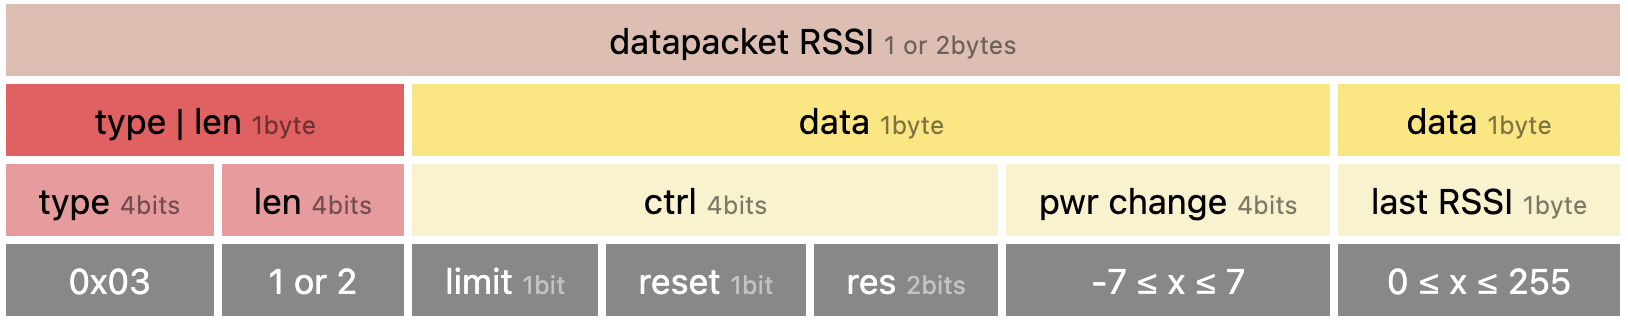
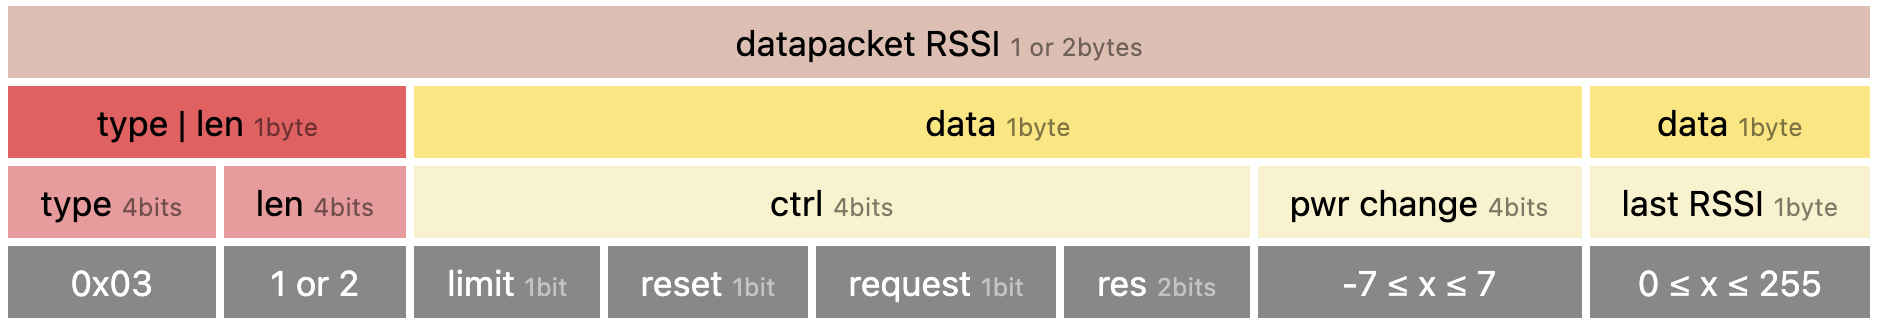
added rssi request flag description

diff --git a/examples/rfm69/README.md b/examples/rfm69/README.md
@@ -1,3 +1,6 @@
+# About
+This example is about a node transferring data via a RFM69 to a [gateway](https://github.com/2ni/rfm69-gateway). The format of the packets are described below. They're flexible and can vary for each node (type). On the gateway a rule should be defined accordingly (by node or node type) to understand the data received.
+
 ## Packet format
 
 <img src="rfm69-packet.png" height="130px" />
@@ -28,7 +31,12 @@ A node can therefore send and receive 16 different types of datapackets each, wh
 ### RSSI ctrl
 The RSSI ctrl byte gives information about power transmission:
 - the lower 4 bits define the amount of change to the power transmission
-- limit bit 0x80: should be set to inform gateway if power_level reached a limit (0 or 23)
-- reset bit 0x40: should be set to inform gateway to reset atc to max power, ie if node doesn't get back ack after several trials
+-  ctrl byte
+| bit | mask | description                                                                    |
+| -   | -    | -                                                                              |
+| 7   | 0x80 | set if node reached a limit (0 or 23) so the gateway doesn't send more changes |
+| 6   | 0x40 | set to request a reset of the atc, eg on startup of the node                   |
+| 5   | 0x20 | set to request the last rssi value. Should be sent with the next transmission  |
+| 4   | 0x10 | reserved for future use                                                        |
 
 <img src="rfm69-datapacket-rssi.png" height="104px" />
